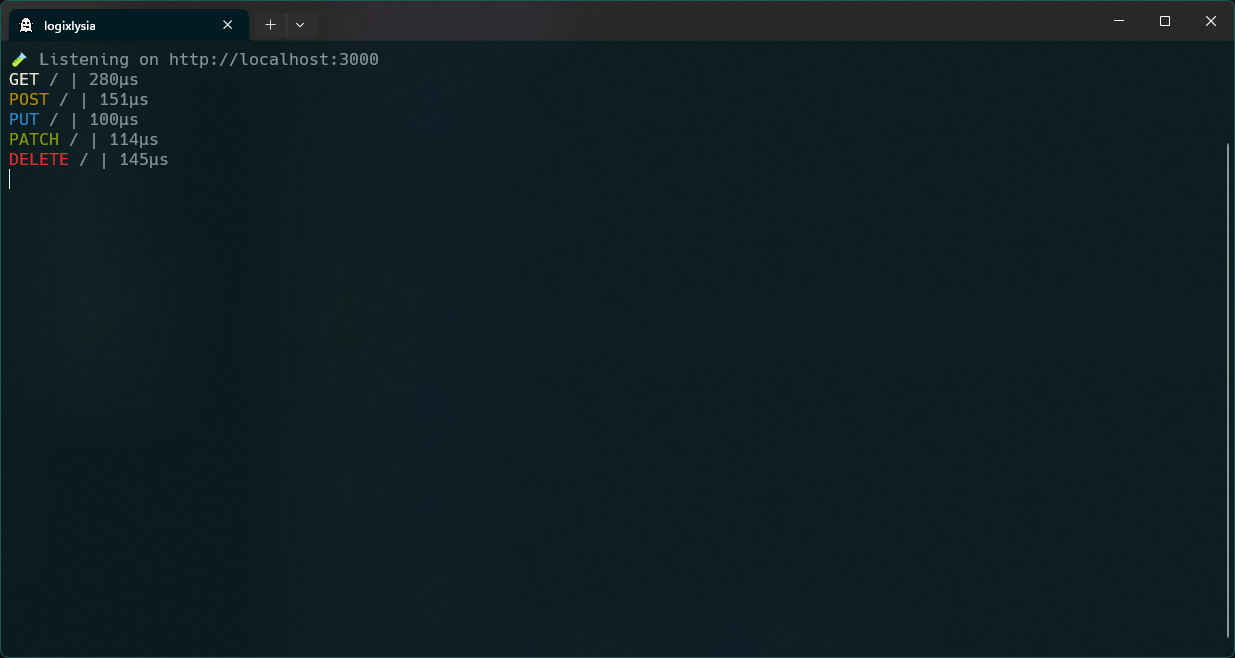
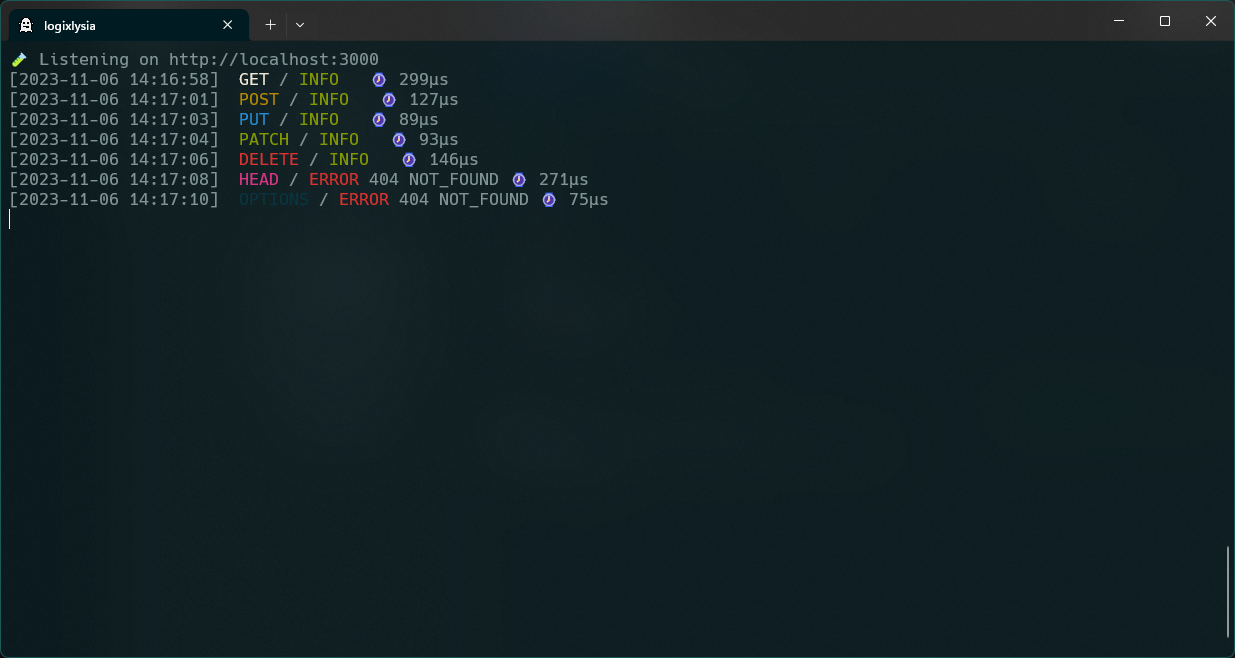
feat(*): add logger format and enhance logging functionality

Changed region(s): [[0.0, 0.0912, 0.4923, 0.3343], [0.9846, 0.2432, 1.0, 0.8207]]

diff --git a/src/logger.ts b/src/logger.ts
@@ -1,0 +1,155 @@
+import * as pc from 'picocolors'
+import { durationString } from './utils/duration'
+import { methodString } from './utils/method'
+
+enum LogLevel {
+  INFO = 'INFO',
+  WARNING = 'WARNING',
+  ERROR = 'ERROR'
+}
+
+interface Logger {
+  info: (
+    request: {
+      headers: { get: (key: string) => any }
+      method: string
+      url: string
+    },
+    data: {
+      status?: number
+      message?: string
+    },
+    store: {
+      beforeTime: bigint
+    }
+  ) => void
+  warning: (
+    request: {
+      headers: { get: (key: string) => any }
+      method: string
+      url: string
+    },
+    data: {
+      status?: number
+      message?: string
+    },
+    store: {
+      beforeTime: bigint
+    }
+  ) => void
+  error: (
+    request: {
+      headers: { get: (key: string) => any }
+      method: string
+      url: string
+    },
+    data: {
+      status?: number
+      message?: string
+    },
+    store: {
+      beforeTime: bigint
+    }
+  ) => void
+}
+
+/**
+ * Logs a message to the console.
+ *
+ * @param {LogLevel} level - The log level.
+ * @param {object} request - The request object.
+ * @param {object} data - The data object.
+ * @param {object} store - The store object.
+ * @returns {void}
+ * @example
+ * log(LogLevel.INFO, request, data, store)
+ */
+function log(
+  level: LogLevel,
+  request: {
+    headers: { get: (key: string) => any }
+    method: string
+    url: string
+  },
+  data: { status?: number; message?: string },
+  store: { beforeTime: bigint }
+) {
+  const logStr = []
+  const now = new Date()
+
+  logStr.push(
+    `[${now.toISOString().replace('T', ' ').replace('Z', '').slice(0, -4)}]`
+  )
+  logStr.push(
+    `[${
+      level === LogLevel.ERROR
+        ? pc.red(level)
+        : level === LogLevel.WARNING
+        ? pc.yellow(level)
+        : pc.green(level)
+    }]`
+  )
+  logStr.push(pc.cyan(request.headers.get('X-Forwarded-For') || ''))
+  logStr.push(methodString(request.method))
+  logStr.push(new URL(request.url).pathname)
+
+  logStr.push(data.status !== undefined ? data.status : '')
+  logStr.push(data.message || '')
+  logStr.push(durationString(store.beforeTime))
+
+  console.log(logStr.join(' '))
+}
+
+/**
+ * Formats the logger.
+ *
+ * @returns {Logger} - The formatted logger.
+ * @example
+ * const log = formatLogger()
+ *
+ * log.info(request, {}, store as { beforeTime: bigint })
+ */
+export const formatLogger = (): Logger => ({
+  info: (
+    request: {
+      headers: { get: (key: string) => any }
+      method: string
+      url: string
+    },
+    data: {
+      status?: number
+      message?: string
+    },
+    store: {
+      beforeTime: bigint
+    }
+  ) => log(LogLevel.INFO, request, data, store),
+  warning: (
+    request: {
+      headers: { get: (key: string) => any }
+      method: string
+      url: string
+    },
+    data: {
+      status?: number
+      message?: string
+    },
+    store: {
+      beforeTime: bigint
+    }
+  ) => log(LogLevel.WARNING, request, data, store),
+  error: (
+    request: {
+      headers: { get: (key: string) => any }
+      method: string
+      url: string
+    },
+    data: {
+      status?: number
+      message?: string
+    },
+    store: {
+      beforeTime: bigint
+    }
+  ) => log(LogLevel.ERROR, request, data, store)
+})

diff --git a/src/index.ts b/src/index.ts
@@ -1,68 +1,11 @@
 import Elysia from 'elysia'
-import * as pc from 'picocolors'
-import process from 'process'
-import { durationString } from './utils/duration'
-import { methodString } from './utils/method'
+import { formatLogger } from './logger'
 
-const logRequest = (
-  request: {
-    headers: { get: (key: string) => any }
-    method: string
-    url: string
-  },
-  store: {
-    beforeTime: bigint
-  }
-) => {
-  const logStr = []
+export const logger = () => {
+  const log = formatLogger()
 
-  if (request.headers.get('X-Forwarded-For')) {
-    logStr.push(`[${pc.cyan(request.headers.get('X-Forwarded-For'))}]`)
-  }
-
-  logStr.push(methodString(request.method))
-  logStr.push(new URL(request.url).pathname)
-  logStr.push(durationString(store.beforeTime))
-
-  console.log(logStr.join(' '))
-}
-
-const logError = (
-  request: {
-    headers: { get: (key: string) => any }
-    method: string
-    url: string
-  },
-  error: {
-    status?: number
-    message?: string
-  },
-  store: {
-    beforeTime: bigint
-  }
-) => {
-  const logStr = []
-
-  logStr.push(pc.red(methodString(request.method)))
-  logStr.push(new URL(request.url).pathname)
-  logStr.push(pc.red('Error'))
-
-  if (error.status !== undefined) {
-    logStr.push(String(error.status))
-  }
-
-  if (error.message !== undefined) {
-    logStr.push(error.message)
-  }
-
-  logStr.push(durationString(store.beforeTime))
-
-  console.log(logStr.join(' '))
-}
-
-export const logger = () =>
-  new Elysia({
-    name: 'logixlysia'
+  const elysia = new Elysia({
+    name: 'Logixlysia'
   })
     .onRequest(ctx => {
       ctx.store = { beforeTime: process.hrtime.bigint() } as {
@@ -75,8 +18,11 @@ export const logger = () =>
       }
     })
     .onAfterHandle(({ request, store }) => {
-      logRequest(request, store as { beforeTime: bigint })
+      log.info(request, {}, store as { beforeTime: bigint })
     })
     .onError(({ request, error, store }) => {
-      logError(request, error, store as { beforeTime: bigint })
+      log.error(request, error, store as { beforeTime: bigint })
     })
+
+  return elysia
+}

diff --git a/src/utils/duration.ts b/src/utils/duration.ts
@@ -21,13 +21,13 @@ function durationString(beforeTime: bigint): string {
 
   if (nanoseconds >= 1e9) {
     const seconds = (nanoseconds / 1e9).toFixed(2)
-    timeMessage = `| ${seconds}s`
+    timeMessage = `⌚ ${seconds}s`
   } else if (nanoseconds >= 1e6) {
-    timeMessage = `| ${durationInMilliseconds}ms`
+    timeMessage = `⌚ ${durationInMilliseconds}ms`
   } else if (nanoseconds >= 1e3) {
-    timeMessage = `| ${durationInMicroseconds}µs`
+    timeMessage = `⌚ ${durationInMicroseconds}µs`
   } else {
-    timeMessage = `| ${nanoseconds}ns`
+    timeMessage = `⌚ ${nanoseconds}ns`
   }
 
   return timeMessage
